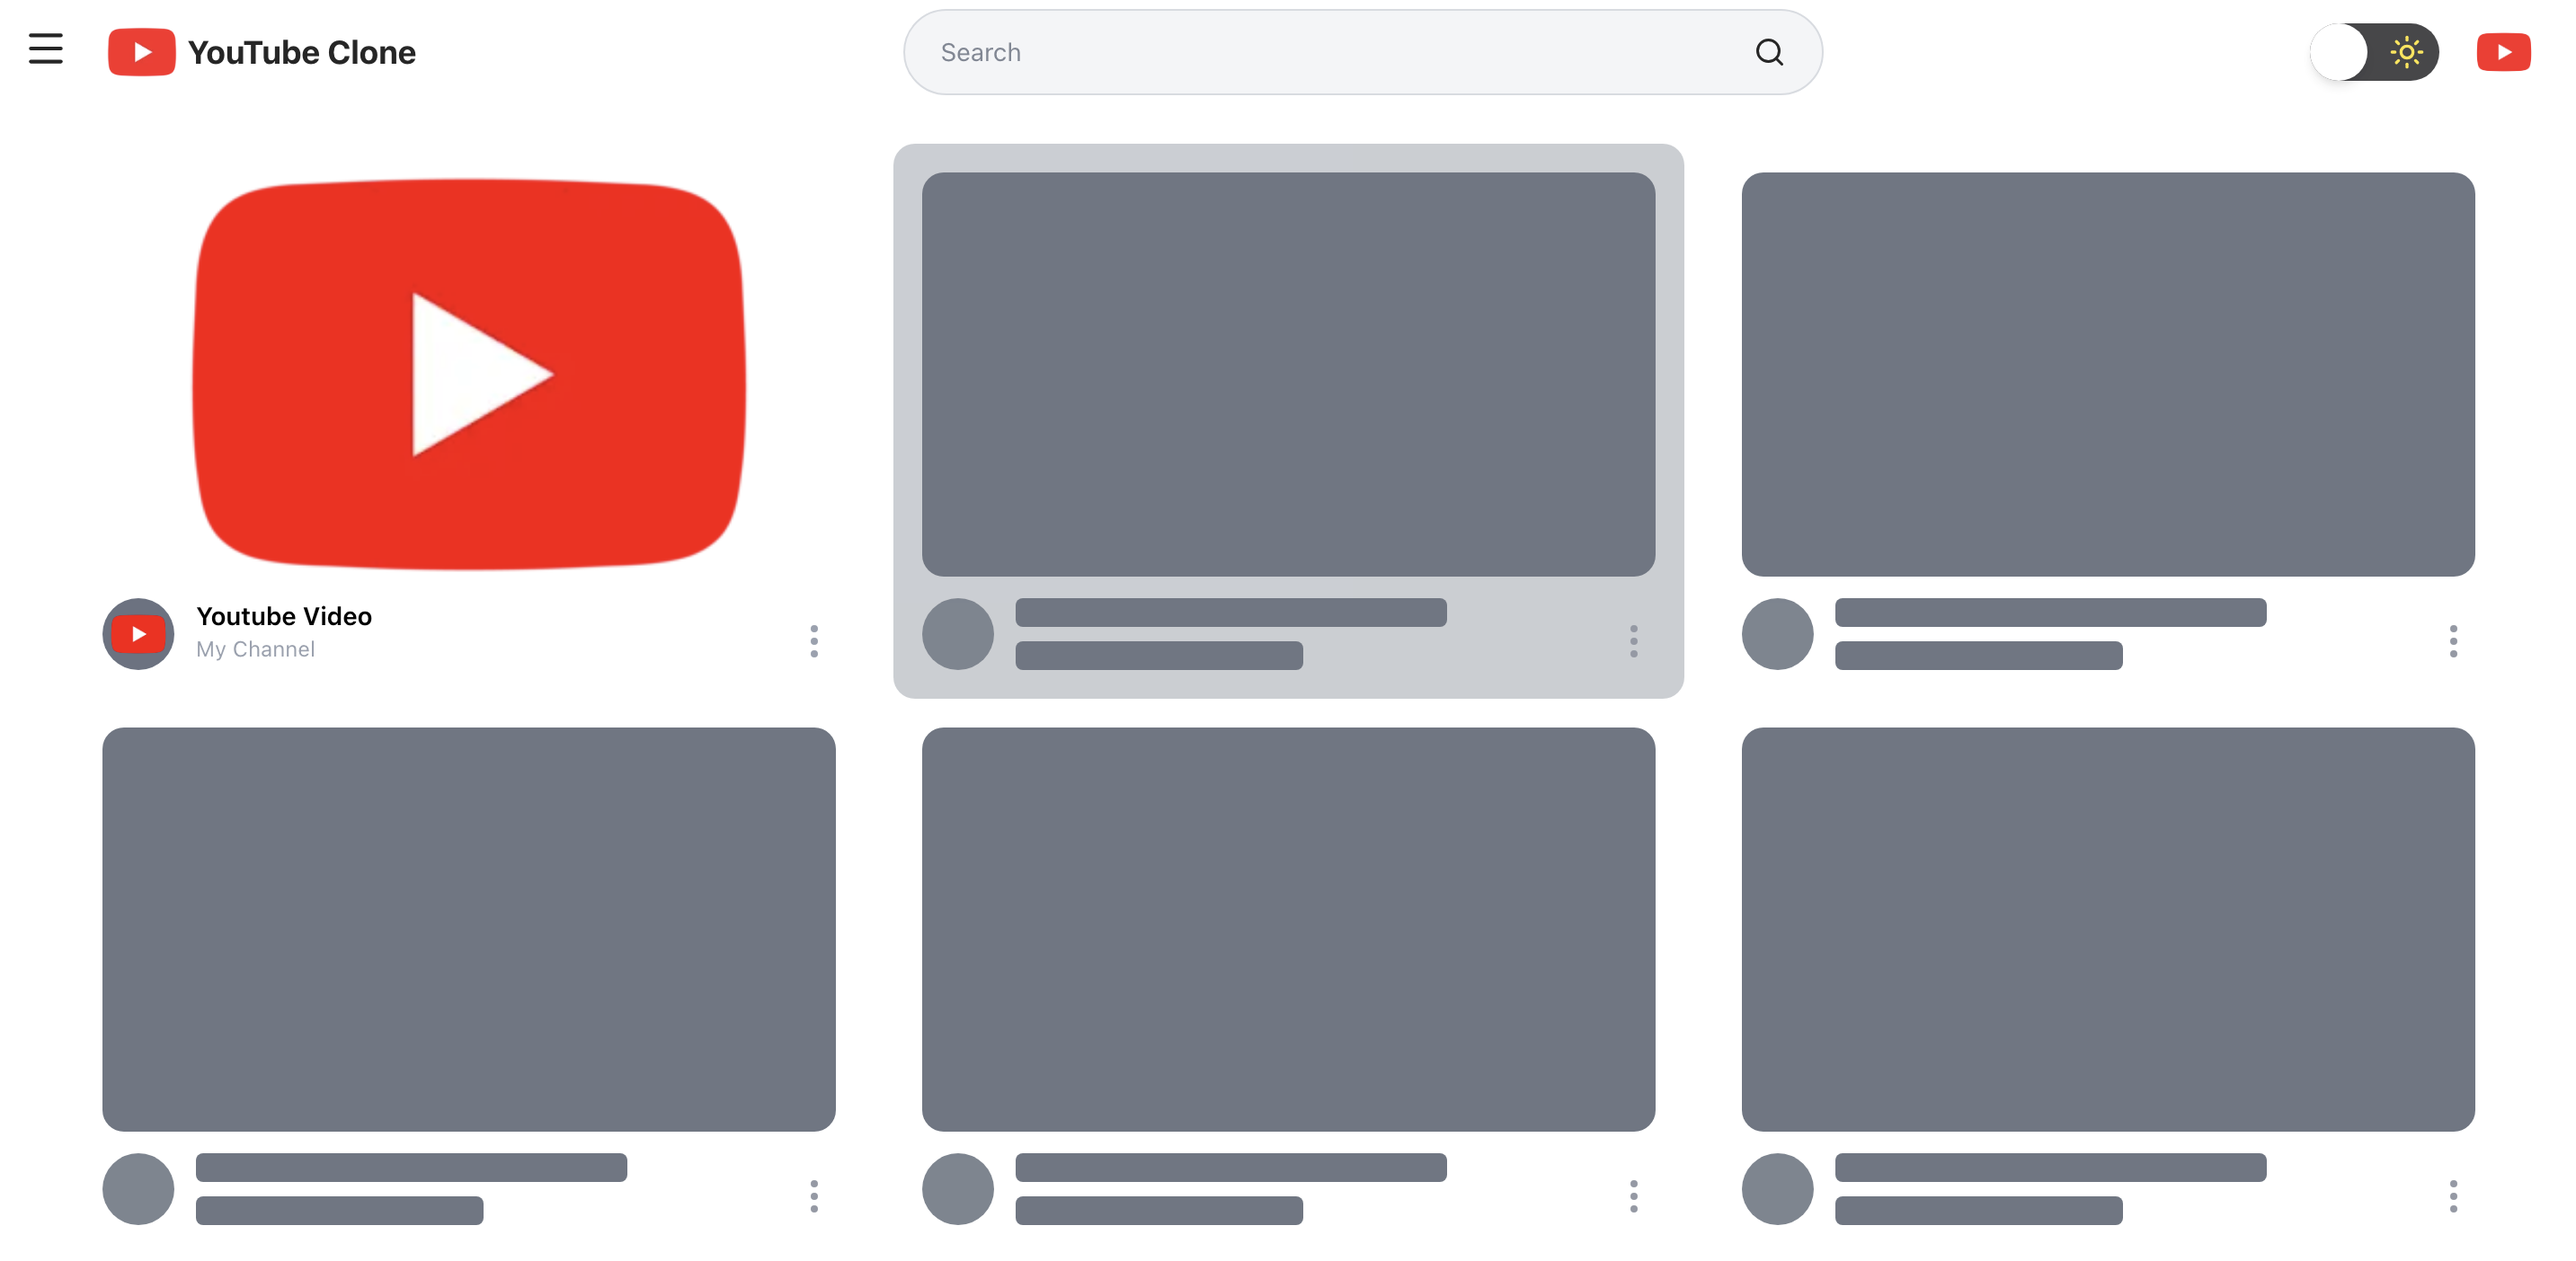
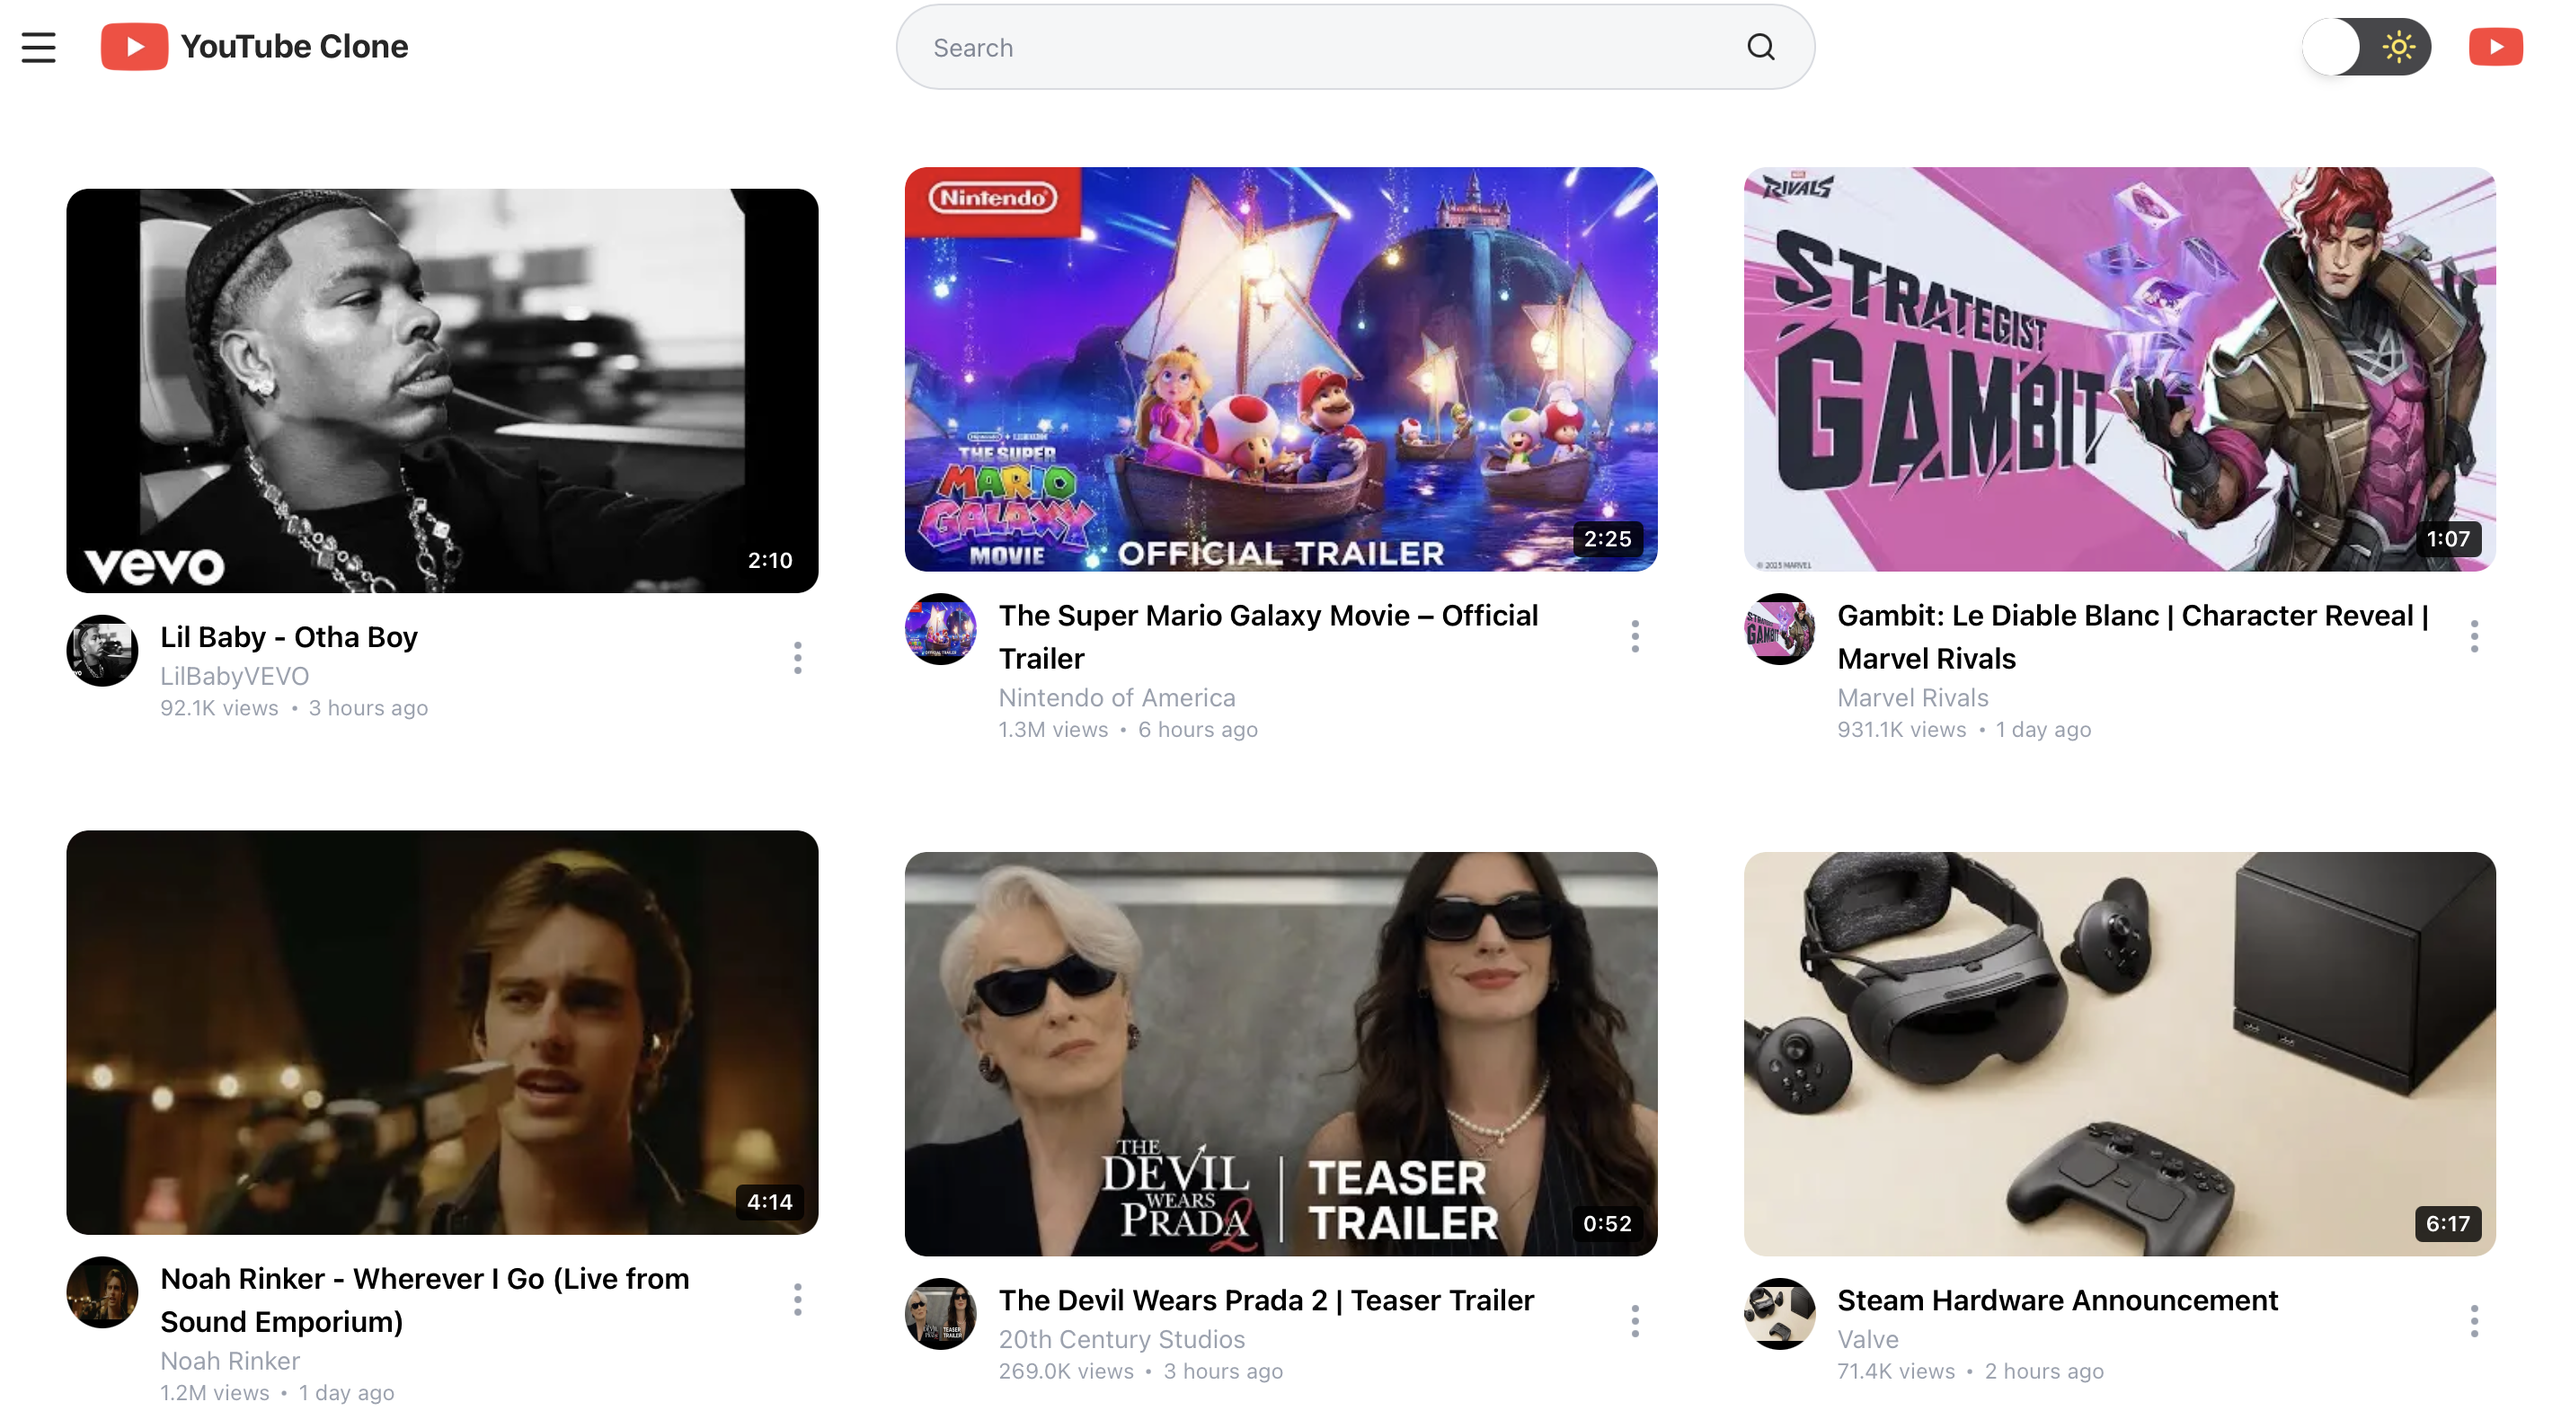
Updated youtube clone link and thumbnail

diff --git a/src/components/ProjectsSection.jsx b/src/components/ProjectsSection.jsx
@@ -22,7 +22,7 @@ const projects = [
         title: "Youtube Clone",
         description: "Full-stack video platform built with Next.js, TypeScript, and Firebase, featuring GCP integration, authentication, and responsive UI. (Not hosted yet, coming soon!)",
         image: "/projects/project4.png",
-        // demoURL: "",
+        demoURL: "https://youtube-clone-woad-chi.vercel.app",
         gitHub: "https://github.com/C3sar10/Youtube-Clone"
     }
 ]
